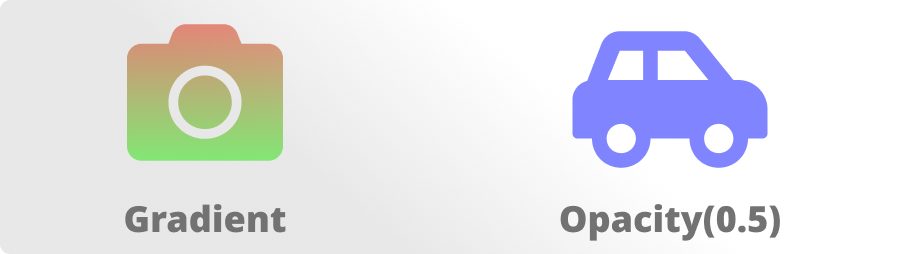
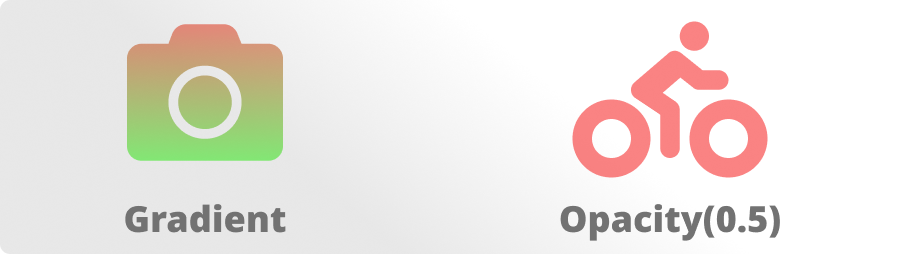
Final README

Changed region(s): [[0.6222, 0.0827, 0.8711, 0.7165]]

diff --git a/README.md b/README.md
@@ -2,19 +2,24 @@
 
 # Advanced Icon
 
-A flutter package which contains collection of icon decoration tools such as gradient, opacity and icon transition feature with a lot of cool animation effects.
+A flutter package which contains collection of icon decoration tools such as gradient, opacity and icon transition feature with cool animation effects.
 
 [![build](https://github.com/ankitmishradev/advanced-icon/actions/workflows/main.yml/badge.svg)](https://github.com/ankitmishradev/advanced-icon/actions/workflows/main.yml)
 [![License](https://img.shields.io/github/license/ankitmishradev/advanced-icon)](https://opensource.org/licenses/MIT)
 
 ## Installing
 
-Add this package to your flutter project's `pubspec.yaml` file:
+With flutter run this command
+
+```console
+$ flutter pub add flutter_staggered_grid_view
+```
+
+This will add a line like this to your package's `pubspec.yaml` (and run an implicit flutter pub get):
 
 ```yaml
 dependencies:
-    ...
-    advanced_icon: <latest version>
+  advanced_icon: <latest version>
 ```
 
 Now in your `Dart` code, you can use:
@@ -26,7 +31,7 @@ import 'package:advanced_icon/advanced_icon.dart';
 ## Features at a Glance
 
 1. An optional `secondaryIcon` property is available to enhance user interaction with minimal manual effort.
-2. A lot of cool animation effects are available to make smooth transition between `icon` and `secondaryIcon`.
+2. Cool animation effects are available to make smooth transition between `icon` and `secondaryIcon`.
 3. In addition to color, icons can also be painted with gradient.
 4. Opacity property is available to make opaque icons.
 5. Inherits all properties of material designed `Icon` widget.
@@ -98,8 +103,8 @@ class _ExampleState extends State<Example> {
 
 ```dart
 AdvancedIcon(
-  icon:Icons.favorite,
-  gradient:const LinearGradient(
+  icon: Icons.photo_camera,
+  gradient: const LinearGradient(
     colors: <Color>[Colors.red, Colors.pink],
     begin: Alignment.topLeft,
     end: Alignment.bottomRight,
@@ -112,9 +117,9 @@ AdvancedIcon(
 
 ```dart
 AdvancedIcon(
-  icon:Icons.apple,
+  icon: Icons.direction_bike,
   color: Colors.blue,
-  opacity:0.5,
+  opacity: 0.5,
 )
 ```
 
